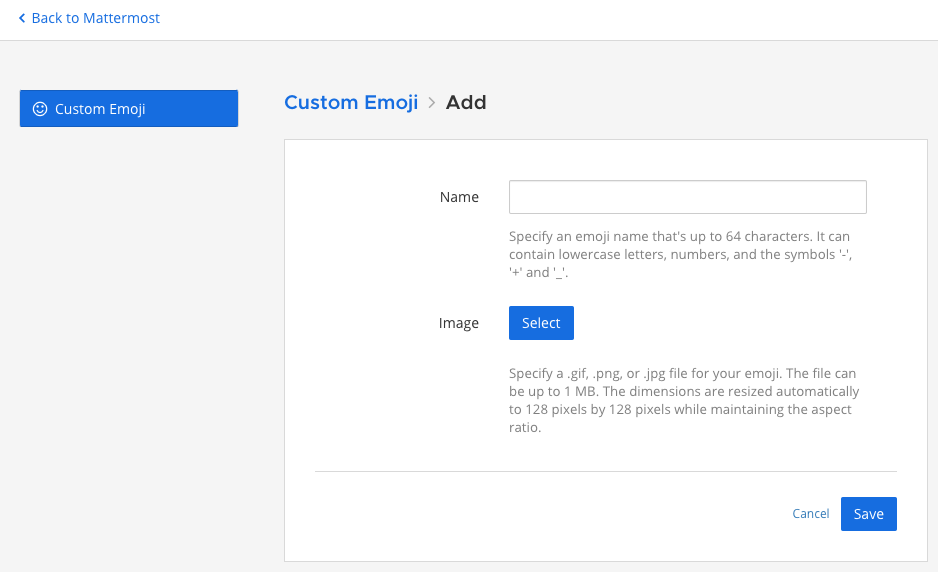
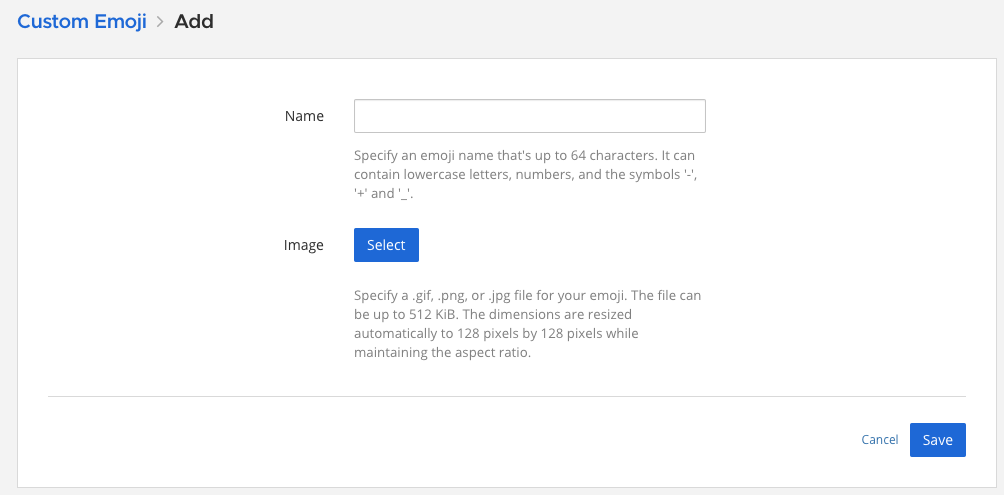
Screenshot update & unit of measure correction

diff --git a/source/channels/react-to-messages.rst b/source/channels/react-to-messages.rst
@@ -47,7 +47,7 @@ Select the **Skin tone** icon in the top right corner of the emoji picker to spe
 Upload custom emojis
 ~~~~~~~~~~~~~~~~~~~~
 
-Everyone in your Mattermost workspace can use the custom emojis you upload. From the emoji picker, select **Custom Emoji**. Small, square pictures work best when selecting an image to upload. The file can be any JPG, GIF, or PNG that's up to 512 KB in size.
+Everyone in your Mattermost workspace can use the custom emojis you upload. From the emoji picker, select **Custom Emoji**. Small, square pictures work best when selecting an image to upload. The file can be any JPG, GIF, or PNG that's up to 512 KiB in size.
 
 1. Enter a name for your custom emoji. This is the name that shows up in the emoji autocomplete.
 2. Choose **Select**, then select the image to use for the emoji.
